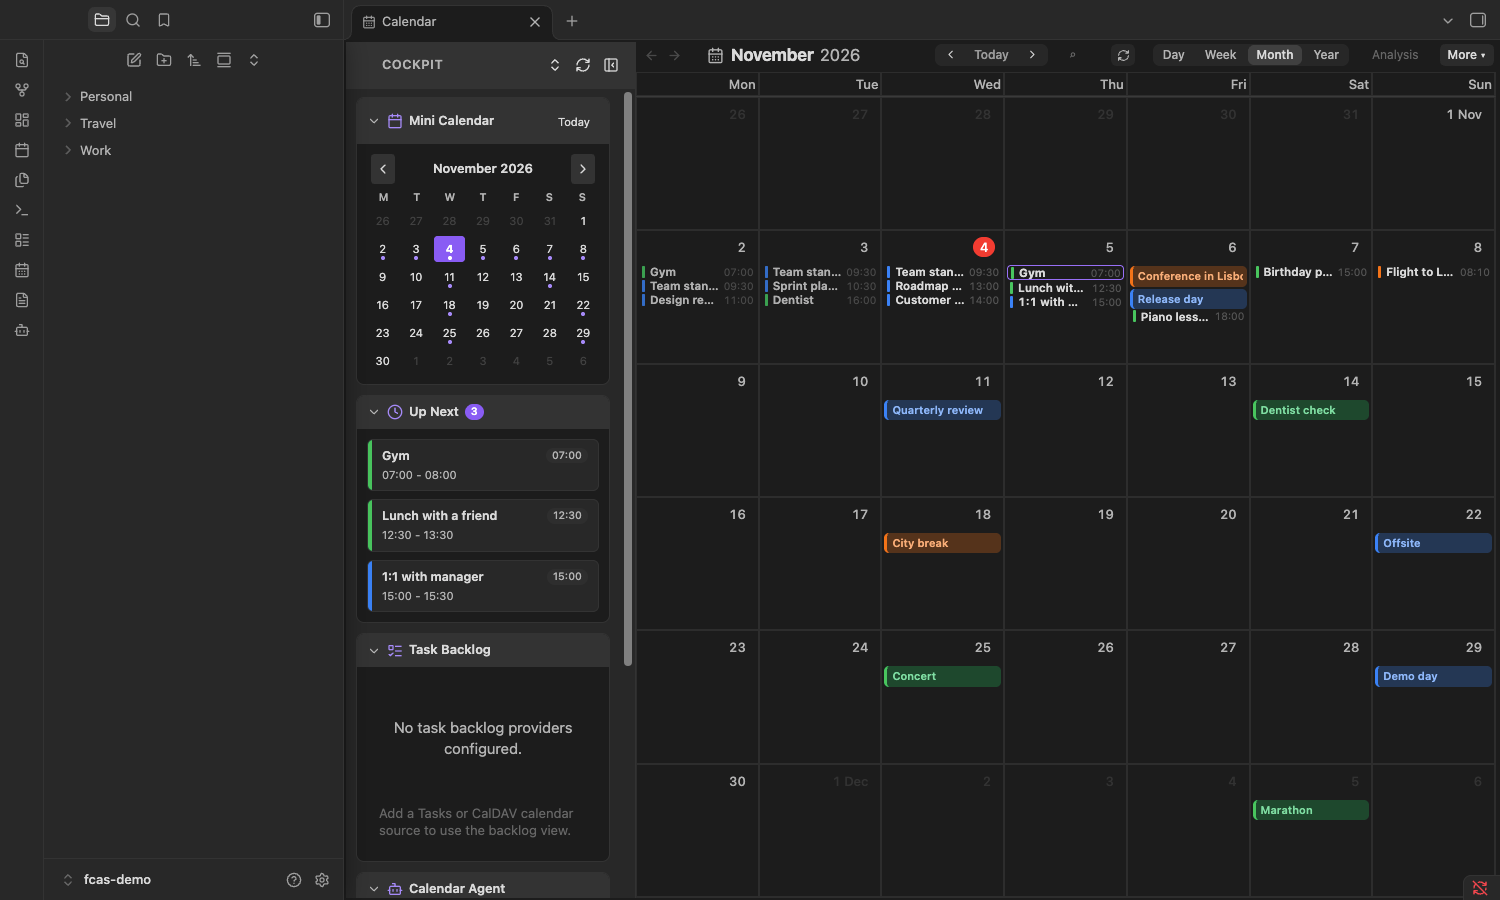
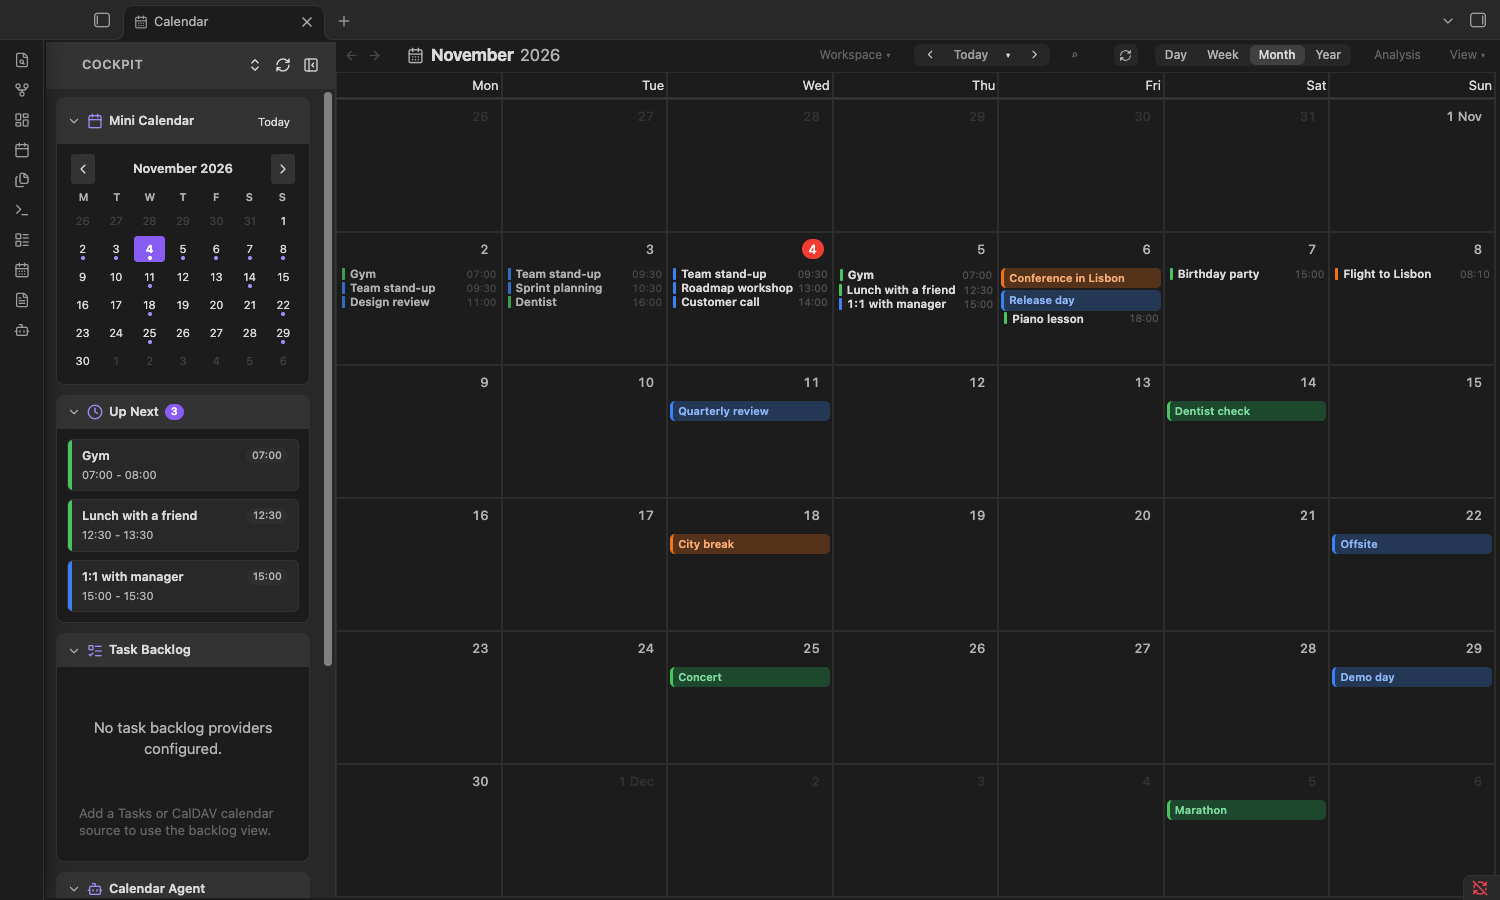
1.1.1: week-from-today applies reliably; stale title cleanup; Known limits in README; refreshed screenshots

diff --git a/main.js b/main.js
@@ -251,6 +251,7 @@ module.exports = class FcAppleSkin extends Plugin {
 		}
 		// "today first" only applies to the week view (when switched on); other views use the configured first day
 		if (!this.weekToday(vt) && fc.getOption('firstDay') !== this.fd()) fc.setOption('firstDay', this.fd());
+		else if (this.weekToday(vt) && fc.getOption('firstDay') !== new Date().getDay()) { fc.setOption('firstDay', new Date().getDay()); fc.gotoDate(new Date()); }
 	}
 
 	scan() {
@@ -578,6 +579,7 @@ module.exports = class FcAppleSkin extends Plugin {
 		if (t) {
 			let m = t.nextElementSibling;
 			if (!m || !m.classList.contains('fcas-title')) { m = createSpan({ cls: 'fcas-title' }); t.after(m); }
+			box.querySelectorAll('.fcas-title').forEach(x => { if (x !== m) x.remove(); });   // Full Calendar moved its title (toolbar re-layout): drop the stale mirror
 			const tt = this.titleParts(fc);
 			const key = tt.main + '|' + tt.sub + '|' + tt.hijri;
 			if (m.dataset.src !== key) {

diff --git a/README.md b/README.md
@@ -45,7 +45,17 @@ Optional extras, all off by default (see Settings): a rolling seven-day week, Is
 | Calendar chips in the toolbar | Off | Coloured rings in the toolbar: click one to show only that calendar, Shift-click to hide or show it. |
 | Busy-day shading in the year view | Off | Tints each day of the year view by how many events it has. |
 | Layered overlap layout | Off | Overlapping events stack in layers with a visible side strip instead of sitting side by side ([rules](docs/LAYOUT-RULES.md)). |
-| Striped look for long repeating events | Off | Repeating timed events at least as long as the threshold (default 240 minutes) are drawn striped, behind other events. |
+| Striped look for long repeating events | Off | Repeating timed events at least as long as the threshold are drawn striped, behind other events. Apple Calendar does not do this. |
+| Striped look threshold (minutes) | 240 | Minimum length for the striped look (30 or more). Only used when the striped look is on. |
+
+## Known limits
+
+- **Hard dependency.** The skin does nothing without Full Calendar Remastered, and stops working if that plugin is disabled.
+- **Uses Full Calendar's internals.** It relies on the plugin's view objects and class names (`app.plugins.plugins['full-calendar-remastered']`, its calendar view, its rendered event segments and `.ofc-calendar-container`) and on the FullCalendar instance behind them. None of these are public APIs, so a Full Calendar update can break the skin.
+- **Polling.** Full Calendar re-renders without notifying other plugins, so the skin re-checks the calendar every 2 seconds and repaints what changed.
+- **Main window only.** It works on the main window's `document`. Calendars opened in a pop-out window are not restyled.
+- **Tested only on Full Calendar Remastered 0.13.7.** Other versions may look wrong or break.
+- **Narrow panes.** Full Calendar itself switches its month view to an agenda list when the calendar is narrower than 768 px; the skin cannot change that.
 
 ## How it works
 
